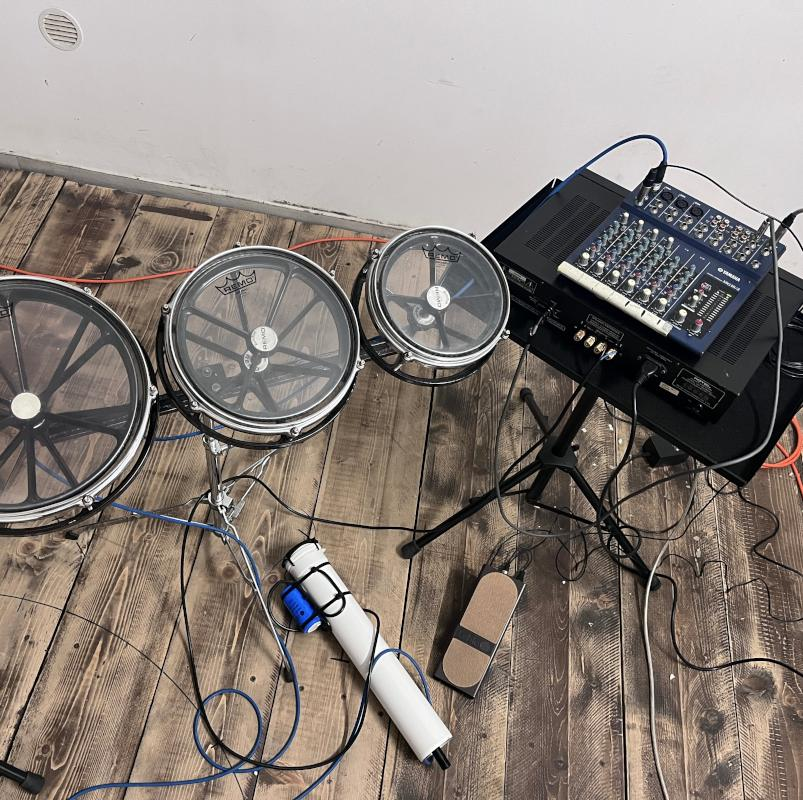
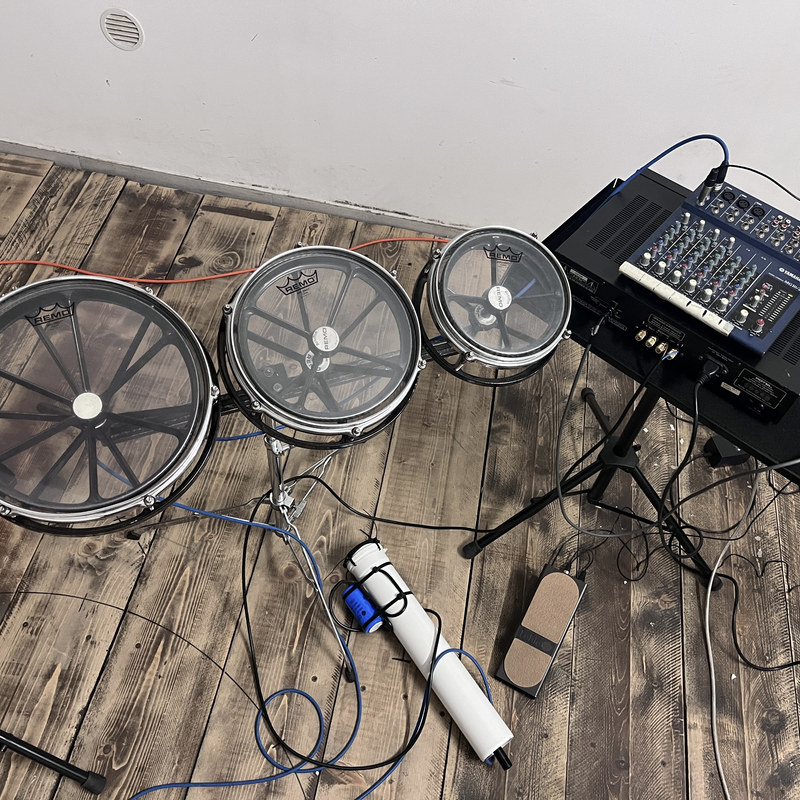
testo, hero e thumb modificati

diff --git a/web/tlmr-di-gasbarro.md b/web/tlmr-di-gasbarro.md
@@ -7,7 +7,7 @@ image:
   caption: ""
 ---
 
-Tube, Loudspeaker, Microphone, Roto-Toms (TLMR) è un assemblaggio di componenti trovati da Marco Di Gasbarro. Questi componenti sono testimoni della rete di relazioni umane, artistiche e macchiniche che tengono vivo il laboratorio.
+Tube, Loudspeaker, Microphone, Roto-Toms (TLMR) è un assemblaggio di componenti estratti da Marco Di Gasbarro dalla rete di relazioni che tengono vivo il laboratorio.
 
 <!--more-->
 